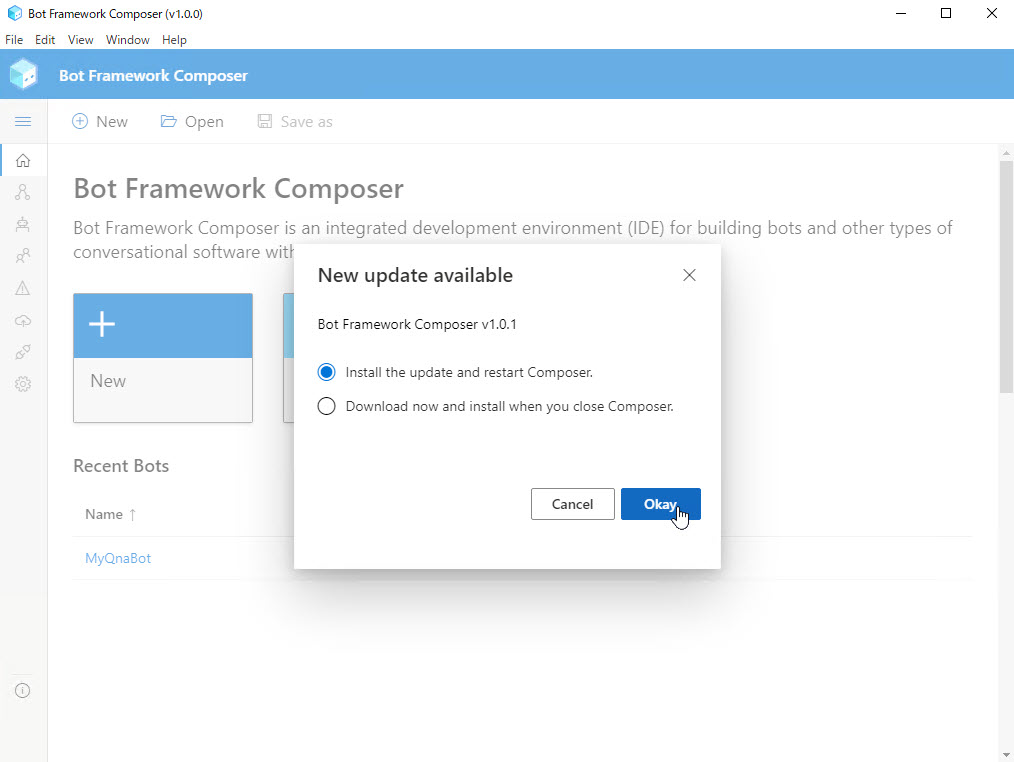
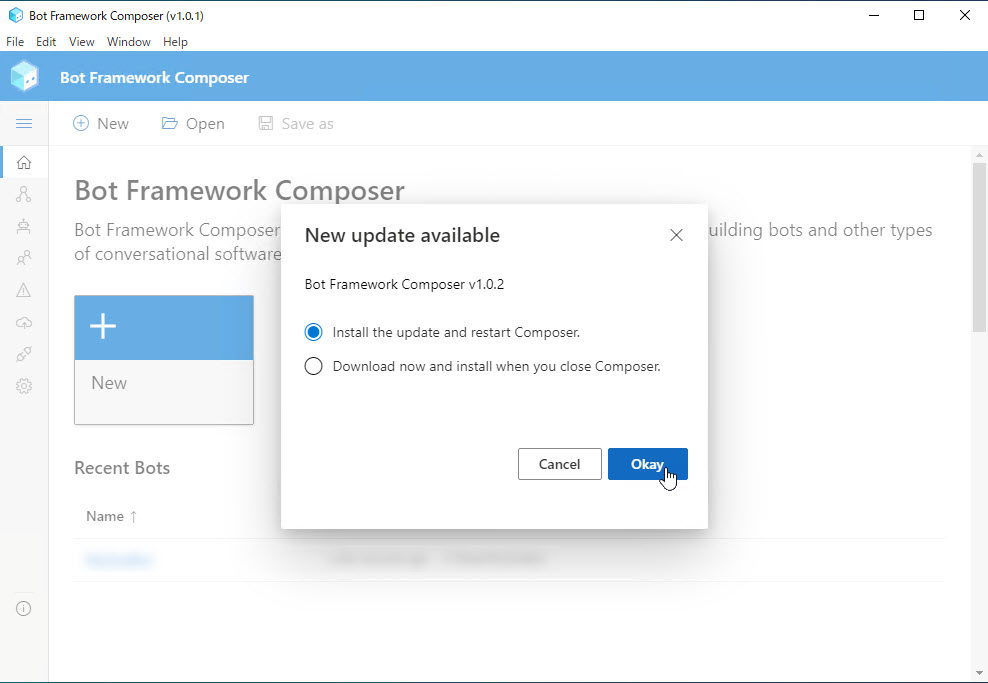
Update Chapter 1 for Composer 1.0.2
Chapter 1 を Composer 1.0.2 用に改訂

diff --git a/docs/01_install.md b/docs/01_install.md
@@ -2,8 +2,8 @@
 
 ハンズオンの最初に [**Bot Framework Composer**](https://docs.microsoft.com/ja-jp/composer/) で Bot 開発のための環境を構築します。
 
-このハンズオンでは、2020年5月に GA、6月はじめにリビジョンアップした [**Bot Framework Composer 1.0.1**](https://techcommunity.microsoft.com/t5/azure-ai/build-2020-conversational-ai-updates/ba-p/1397685) を使用します。  
-実施の時期によっては画面の構成などが一部異なる可能性があります。
+このハンズオンでは、2020年5月に GA、7月前半にリビジョンアップした [**Bot Framework Composer 1.0.2**](https://techcommunity.microsoft.com/t5/azure-ai/build-2020-conversational-ai-updates/ba-p/1397685) を使用します。  
+ハンズオン実施の時期によっては画面の構成などが一部異なる可能性があります。
 
 > 参考として [ソースコードからビルドする方法](#%e5%8f%82%e8%80%83-%e3%82%bd%e3%83%bc%e3%82%b9%e3%82%b3%e3%83%bc%e3%83%89%e3%81%8b%e3%82%89%e3%83%93%e3%83%ab%e3%83%89%e3%81%99%e3%82%8b%e6%96%b9%e6%b3%95) も紹介します。  
 > 不具合修正や機能追加・変更が、アプリケーション版より早いタイミングで行われる可能性があります。  
